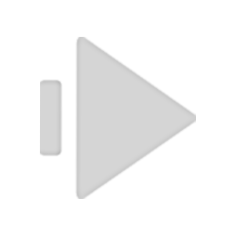
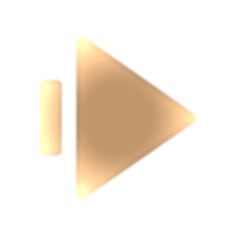
Export screen shift to Final export screen finished. Data is stored when returning to previous screen.

Changed region(s): [[0.3004, 0.1489, 0.8412, 0.8638], [0.1502, 0.3277, 0.2704, 0.6851]]

diff --git a/main.py b/main.py
@@ -69,7 +69,10 @@ class HoverButton(Button, HoverBehavior):
                             "Images/pencil_edit.png":"Images/pencil_icon_selected.png",
                             "Images/closed_folder.png":"Images/opened_folder.png",
                             "Images/arrow_pick.png":"Images/arrow_pick_selected.png",
-                            "Images/back_arrow_icon.png":"Images/back_arrow_icon_selected.png"}
+                            "Images/back_arrow_icon.png":"Images/back_arrow_icon_selected.png",
+                            "Images/expand_arrow.png":"Images/expand_arrow_selected.png",
+                            "Images/closed_box.png":"Images/closed_box_selected.png",
+                            "Images/return_box.png":"Images/return_box_selected.png"}
 
     # "on_button_hover" method loops trough the 'images_path' dictionary and looks for a element that is equal to a instance attribute.
     # In this case it's looking for a background_normal within the "inventory_button" widget. Once it finds a equal string,
@@ -110,10 +113,9 @@ class MainScreen(Screen, Transition):
         self.inventory_button = HoverButton(
             background_normal="Images/inventory_text.png",
             background_down="Images/inventory_text.png",
-            font_size=15,
-            size_hint=(.2, .04),
+            pos_hint={"center_x": .2, "center_y": .9},
+            size_hint=(.28, .1),
             border=(0, 0, 0, 0))
-
         self.ids.LY2.add_widget(self.inventory_button)
         self.inventory_button.bind(on_enter=self.inventory_button.on_button_hover, on_leave=self.inventory_button.on_button_hover_exit)
         # In order for a transition to work, we need to combine this on_release event with lambda.
@@ -123,8 +125,8 @@ class MainScreen(Screen, Transition):
         self.import_button = HoverButton(
             background_normal="Images/import_text.png",
             background_down="Images/import_text.png",
-            font_size=15,
-            size_hint=(.2, .04),
+            size_hint=(.28, .1),
+            pos_hint={"center_x": .154,"center_y": .8},
             border=(0, 0, 0, 0))
         self.ids.LY2.add_widget(self.import_button)
         self.import_button.bind(on_enter=self.import_button.on_button_hover, on_leave=self.import_button.on_button_hover_exit)
@@ -133,8 +135,8 @@ class MainScreen(Screen, Transition):
         self.export_button = HoverButton(
             background_normal="Images/export_text.png",
             background_down="Images/export_text.png",
-            font_size=30,
-            size_hint=(.2, .04),
+            pos_hint={"center_x": .162, "center_y": .7},
+            size_hint=(.28, .1),
             border=(0, 0, 0, 0))
         self.export_button.bind(on_enter=self.export_button.on_button_hover, on_leave=self.export_button.on_button_hover_exit)
         self.export_button.bind(on_release=lambda x: self.transition("Fifth"))
@@ -143,12 +145,12 @@ class MainScreen(Screen, Transition):
         self.exit_button = HoverButton(
             background_normal="Images/exit_button.png",
             background_down="Images/exit_button.png",
-            size_hint=(.07, .1),
+            size_hint=(.06, .095),
             pos_hint={"center_x": .94, "center_y": .09},
             border=(0, 0, 0, 0))
         self.exit_button.bind(on_enter=self.exit_button.on_button_hover, on_leave=self.exit_button.on_button_hover_exit)
         self.exit_button.bind(on_release=self.exit_app)
-        self.ids.LY25.add_widget(self.exit_button)
+        self.ids.LY2.add_widget(self.exit_button)
     def exit_app(self, instance):
         App.get_running_app().stop()
 class InventoryScreen(Screen, Transition):
@@ -421,6 +423,7 @@ class InventoryScreen(Screen, Transition):
                         multiline=False,
                         border=(0, 0, 0, 0),
                         halign="right",
+                        input_filter="int",
                         font_size=30,
                         cursor_color=(0, 0, 0, 1),
                         foreground_color=(0, 0, 0, 1),
@@ -619,14 +622,16 @@ class ImportScreen(Screen, Transition, DropField):
         # self.drop_field = DropField(size_hint=(1, None))
         # self.drop_field.bind(on_dropfile=self.on_file_drop)
         # self.ids.LY6.add_widget(self.drop_field)
-
+        # size_hint = (.06, .095),
+        #
+        # pos_hint = {"center_x": .94, "center_y": .09})
 
         self.home_button = HoverButton(
             background_normal="Images/home_button_icon.png",
             background_down="Images/home_button_icon.png",
-            size_hint=(.065, .1),
+            size_hint = (.06, .095),
             border=(0, 0, 0, 0),
-            pos_hint={"center_x": .94, "top_y": .94})
+            pos_hint = {"center_x": .94, "center_y": .09})
         self.home_button.bind(on_enter=self.home_button.on_button_hover, on_leave=self.home_button.on_button_hover_exit)
         self.home_button.bind(on_release=self.home_page)
         self.ids.LY6.add_widget(self.home_button)
@@ -702,9 +707,6 @@ class ImportScreen(Screen, Transition, DropField):
                 bold=True)
             self.ids.LY65.add_widget(self.imported_amount)
 
-            # self.correspnding_amount = Label
-
-
             for divider in range(2):
                 self.divider_line = Image(
                     source="Images/divider_3.png",
@@ -733,6 +735,7 @@ class ExportScreen(Screen, Transition):
     def __init__(self, **kwargs):
         super(ExportScreen, self).__init__(**kwargs)
         self.df = pd.read_csv("Components_data.csv")
+        self.data_store = False
 
         self.home_button = HoverButton(
             background_normal="Images/home_button_icon.png",
@@ -742,51 +745,68 @@ class ExportScreen(Screen, Transition):
             pos_hint={"center_x": .94, "center_y": .09})
         self.home_button.bind(on_enter=self.home_button.on_button_hover, on_leave=self.home_button.on_button_hover_exit)
         self.home_button.bind(on_release=self.home_page)
+        self.home_button.bind(on_release=lambda button: (setattr(self,"data_store",False)))
         self.ids.LY8.add_widget(self.home_button)
 
-        # Setting "size_hint" of LY10 layout explicitly so we can modify its values in python code.
-        # self.ids.LY10.size_hint = (.4,.06)
+        self.next_page = HoverButton(
+            background_normal="Images/closed_box.png",
+            background_down="Images/closed_box.png",
+            size_hint=(.07, .125),
+            border=(0, 0, 0, 0),
+            pos_hint={"center_x": .94, "center_y": .9})
+        self.ids.LY8.add_widget(self.next_page)
+        self.next_page.bind(on_enter=self.next_page.on_button_hover, on_leave=self.next_page.on_button_hover_exit)
+        self.next_page.bind(on_release=lambda page: self.transition("Sixth"))
+        self.next_page.bind(on_release=lambda button: (setattr(self,"data_store", True)))
 
-    def on_pre_enter(self, *args):
-        self.tuple_list = []
-        self.children_list = []
-
-        for placeholder in range(38):
-            x = "x"
-            self.children_list.append(x)
-
-        for index, component in enumerate(self.df["Komponent"]):
-            self.component_label = Label(
-                text=component,
-                font_size=20,
-                size_hint=(1,None))
-
-            self.arrow_button = HoverButton(
-                background_normal="Images/arrow_pick.png",
-                background_down="Images/arrow_pick.png",
-                background_disabled_normal="Images/arrow_pick_disabled.png",
-                size_hint=(.2, .05),
-                border=(0, 0, 0, 0))
-            self.arrow_button.my_id = index
-            self.arrow_button.bind(on_enter=self.arrow_button.on_button_hover,on_leave=self.arrow_button.on_button_hover_exit)
-            self.arrow_button.bind(on_release=self.transfer_component)
 
 
 
-            """
-            "tuple_list" is storing our widgets, they are organized in a touples for later access.
-            """
-            tuple_data = (self.component_label, self.arrow_button)
-            self.tuple_list.append(tuple_data)
+    def on_pre_enter(self, *args):
 
-            self.ids.LY9.add_widget(self.component_label)
-            self.ids.LY9.add_widget(self.arrow_button)
+
+        if not self.data_store:
+            self.transfered_dict = {}
+            self.tuple_list = []
+            self.children_list = ["x" for placeholder in range(38)]
+            for index, component in enumerate(self.df["Komponent"]):
+                self.component_label = Label(
+                    text=component,
+                    font_size=25,
+                    size_hint=(1,None),
+                    outline_color=(0, 0, 0, 1),
+                    outline_width=2)
+
+
+                self.arrow_button = HoverButton(
+                    background_normal="Images/arrow_pick.png",
+                    background_down="Images/arrow_pick.png",
+                    background_disabled_normal="Images/arrow_pick_disabled.png",
+                    size_hint=(.2, .05),
+                    border=(0, 0, 0, 0))
+                self.arrow_button.my_id = index
+                self.arrow_button.bind(on_enter=self.arrow_button.on_button_hover,on_leave=self.arrow_button.on_button_hover_exit)
+                self.arrow_button.bind(on_release=self.transfer_component)
+
+
+
+                """'tuple_list' is storing our widgets and they are organized in a touples for later access."""
+                tuple_data = (self.component_label, self.arrow_button)
+                self.tuple_list.append(tuple_data)
+
+
+                self.ids.LY9.add_widget(self.component_label)
+                self.ids.LY9.add_widget(self.arrow_button)
+        else:
+            pass
 
     """
-    
+    Each press of a "arrow_button" will now generate 3 new widgets and corresponding "component_label", "arrow_button" will become disabled.
+    All of the widgets are related to each other with the use of "component_index". We are using the "children_list" which is filled with appropriate amount
+    of placeholders to maintain the correct number of indicies.
     """
     def transfer_component(self, index_id):
-        # Each addition of a widget in the LY10 layout will increase the "size_hint" to match the layout's structure.
+        """Each addition of a widget in the LY10 layout will increase the "size_hint" to match the layout's structure."""
         update_size_hint = lambda: (0.4, self.ids.LY10.size_hint[1] + .12)
         self.ids.LY10.size_hint = update_size_hint()
 
@@ -798,24 +818,33 @@ class ExportScreen(Screen, Transition):
 
 
         self.transfered_component = Label(
-            text=f"[b]{self.component_text.text}[/b]",
+            text=self.component_text.text,
             markup=True,
             font_size=30,
             outline_color=(0, 0, 0, 1),
             outline_width=2)
         self.ids.LY10.add_widget(self.transfered_component)
 
+        """
+        Insted of using on_text_validate, usage of 'focus' function allows us to store the widgets 
+        in 'self.transfered_dict' without the need to press enter on every instance. Simply clicking out of 
+        focus of the text input field will perform equally.
+        """
         self.amount_text = TextInput(
-            background_active="Images/border_icon.png",
-            background_normal="Images/border_icon.png",
+            background_active="Images/border_icon_2.png",
+            background_normal="Images/border_icon_2.png",
             multiline=False,
+            input_filter="int",
             border=(0, 0, 0, 0),
             cursor_color=(0, 0, 0, 1),
             foreground_color=(0, 0, 0, 1),
             font_size=30,
-            padding=(20,19,0,0),
+            padding=(20,18,0,0),
             halign="center",
-            size_hint=(.3,.4))
+            size_hint=(.3,.4),)
+            # on_text_validate=(self.text_input_validate))
+        self.amount_text.bind(focus=self.text_input_validate)
+        self.amount_text.my_id = self.component_index
         self.ids.LY10.add_widget(self.amount_text)
 
         self.unselect_button = HoverButton(
@@ -829,6 +858,7 @@ class ExportScreen(Screen, Transition):
         self.ids.LY10.add_widget(self.unselect_button)
         print(f"Selected index is: {self.component_index}")
 
+        """Each placeholder in "children_list" at the specified index is being replaced with tuple consisting of (component, text, button)."""
         self.children_list[self.component_index] = (self.transfered_component,self.amount_text,self.unselect_button)
 
 
@@ -837,17 +867,18 @@ class ExportScreen(Screen, Transition):
     the height attribute of size_hint by .12.
     """
     def clear_component(self, index_id):
-        # Each removal of a widget in the LY10 layout will decrease the "size_hint" to match the layout's structure.
+        """Each removal of a widget in the LY10 layout will decrease the "size_hint" to match the layout's structure."""
         update_size_hint = lambda: (0.4, self.ids.LY10.size_hint[1] - .12)
         self.ids.LY10.size_hint = update_size_hint()
-
-
         self.component_index = index_id.my_id
         print(f"Deleted index is: {self.component_index}")
+
+        """In order to remove widgets correctly, we need find the correct index in the "children_list first and only then unpack the tuple."""
         remove_children_0 = self.children_list[self.component_index][0]
         remove_children_1 = self.children_list[self.component_index][1]
         remove_children_2 = self.children_list[self.component_index][2]
 
+        """We set the disable property of a "arrow_button" and "component_label" back to False so they can available again for use."""
         self.tuple_list[self.component_index][0].disabled = False
         self.tuple_list[self.component_index][1].disabled = False
 
@@ -855,24 +886,76 @@ class ExportScreen(Screen, Transition):
         self.ids.LY10.remove_widget(remove_children_1)
         self.ids.LY10.remove_widget(remove_children_2)
 
+        """
+        Condition that checks if 'component_name' is in 'self.transfered_dict'. 
+        If true, component will be removed from the dictionary along with the corresponding value.
+        """
+        if self.children_list[self.component_index][0].text in self.transfered_dict:
+            self.transfered_dict.pop(self.children_list[self.component_index][0].text)
+
+        print(self.transfered_dict)
+
+        """
+        Method that validates the text_field input. After text_input recieves a valid value, component aswell as the value are transfered
+        into a 'transfered_dict' as a component (key) and amount as (value). Once value from text_input field is removed, the corresponding key
+        in a dictionary is also removed. Value paramater controls the focus of the text input field, once focus is lost (press of a 'enter' button or mouse click out of the boundary of the text_input field)
+        '.update' function is fired.
+        """
+    def text_input_validate(self, index_id, value):
+        self.component_index = index_id.my_id
+        component_name = self.children_list[self.component_index][0].text
+        component_amount = self.children_list[self.component_index][1].text
+
+        if not value:
+            self.transfered_dict.update({component_name:component_amount})
+            if self.transfered_dict[component_name] == "":
+                self.transfered_dict.pop(component_name)
 
 
-
-
-
-
-
+        print(self.transfered_dict)
 
     """
-    Reseting widget's properties back to their original values and clearing them from the layout.
+    Reseting widget's properties back to their original values including the layout's size_hint and clearing them from the layout.
     """
     def on_leave(self, *args):
-        update_size_hint = lambda: (0.4, 0)
-        self.ids.LY10.size_hint = update_size_hint()
-        self.tuple_list.clear()
-        self.children_list.clear()
-        self.ids.LY9.clear_widgets()
-        self.ids.LY10.clear_widgets()
+        if not self.data_store:
+            update_size_hint = lambda: (0.4, 0)
+            self.ids.LY10.size_hint = update_size_hint()
+            self.tuple_list.clear()
+            self.children_list.clear()
+            self.transfered_dict.clear()
+            self.ids.LY9.clear_widgets()
+            self.ids.LY10.clear_widgets()
+        else:
+            pass
+
+class FinalExportScreen(Screen, Transition):
+    def __init__(self, **kwargs):
+        super(FinalExportScreen, self).__init__(**kwargs)
+
+        # self.data_store = True
+
+        self.home_button = HoverButton(
+            background_normal="Images/home_button_icon.png",
+            background_down="Images/home_button_icon.png",
+            size_hint=(.06, .095),
+            border=(0, 0, 0, 0),
+            pos_hint={"center_x": .94, "center_y": .09})
+        self.home_button.bind(on_enter=self.home_button.on_button_hover, on_leave=self.home_button.on_button_hover_exit)
+        self.home_button.bind(on_release=self.home_page)
+        self.ids.LY11.add_widget(self.home_button)
+
+        self.previous_page = HoverButton(
+            background_normal="Images/return_box.png",
+            background_down="Images/return_box.png",
+            size_hint=(.07, .125),
+            border=(0, 0, 0, 0),
+            pos_hint={"center_x": .07, "center_y": .9})
+        self.ids.LY11.add_widget(self.previous_page)
+        self.previous_page.bind(on_enter=self.previous_page.on_button_hover, on_leave=self.previous_page.on_button_hover_exit)
+        self.previous_page.bind(on_release=lambda page: self.transition("Fifth"))
+
+
 class WindowManager(ScreenManager):
     pass
 
@@ -885,6 +968,7 @@ class SaniStore(App):
         sm.add_widget(InventoryScreen(name="Third"))
         sm.add_widget(ImportScreen(name="Fourth"))
         sm.add_widget(ExportScreen(name="Fifth"))
+        sm.add_widget(FinalExportScreen(name="Sixth"))
         return sm
 
 

diff --git a/DataFrame.py b/DataFrame.py
@@ -87,6 +87,3 @@ pd.set_option('display.max_columns', 50)
 #                  0]}
 
 
-
-
-
